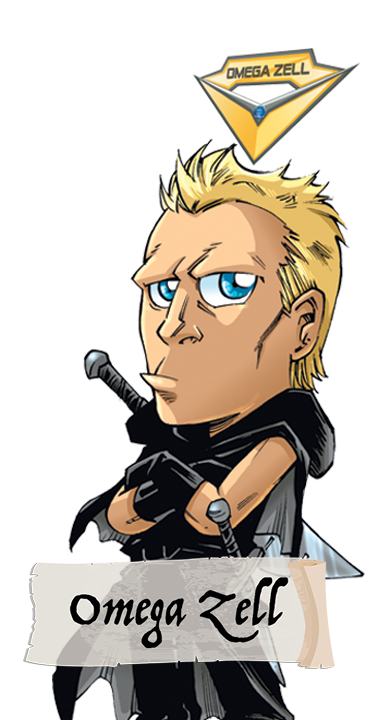
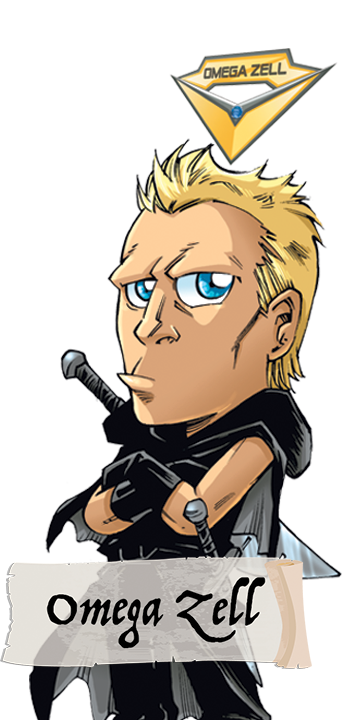
Modif quête 1 plus propre
Modification des div + ajout ombre portée sur croix et flèche

diff --git a/views/quete1.html b/views/quete1.html
@@ -1,6 +1,6 @@
 <div ng-controller="Quete1Ctrl">
 
-<div class="fondquete" ng-if="partie1">
+<!--<div class="fondquete" ng-if="partie1">
 	<section id="partie1"  >
 
 			<div class="row quete">
@@ -19,15 +19,43 @@
 					
 			</div>
 	</section>
+</div>-->
+
+<div class="fondquete" ng-if="partie1">
+	<section id="partie1"  >
+
+			<div class="row containerquete">
+
+				<div class="col-xs-4">
+							<img src="images/quete/Quete1/start/titre.jpg" class="img-responsive">
+				</div>
+
+				<div class="col-xs-4" ng-click="quete1Start('gaea')">
+							<img src="images/quete/Quete1/start/gaea.png" class="img-responsive persoquete">
+			     </div>		
+
+				<div class="col-xs-4" ng-click="quete1Start('omega')">		
+							<img src="images/quete/Quete1/start/omega.png" class="img-responsive persoquete">
+				</div>								
+					
+			</div>
+	</section>
 </div>
+
+
+
+
+
+
+
 
 														<!--OMEGA-->
 	<section id="omega1" ng-if="omega1">	
 		
-		<div class="col-xs-12">
+		<div class="col-xs-12 imgsaisons">
 		<img src="images/quete/Quete1/omega/1.jpg" class="img-responsive"> 
-		<a href ="#carte"><img src="images/quete/Quete1/bouton/croix.svg" class="croix"></a>
-		<img src="images/quete/Quete1/bouton/flecheD.svg" class="fleche" ng-click="queteOmegaA()">
+		<a href ="#carte"><span class="glyphicon glyphicon-remove croix" aria-hidden="true"></span></a>
+		<span class="glyphicon glyphicon-chevron-right fleche" aria-hidden="true" ng-click="queteOmegaA()"></span>
 		</div>
 
 	</section>
@@ -35,10 +63,10 @@
 
 	<section id="omega2" ng-if="omega2">
 		
-		<div class="col-xs-12">
+		<div class="col-xs-12 imgsaisons">
 		<img src="images/quete/Quete1/omega/2.jpg" class="img-responsive">
-		<a href ="#carte"><img src="images/quete/Quete1/bouton/croix.svg" class="croix"></a>
-		<img src="images/quete/Quete1/bouton/flecheD.svg" class="fleche" ng-click="queteOmegaB()">		
+		<a href ="#carte"><span class="glyphicon glyphicon-remove croix" aria-hidden="true"></span></a>
+		<span class="glyphicon glyphicon-chevron-right fleche" aria-hidden="true" ng-click="queteOmegaB()"></span>		
 		</div>
 
 
@@ -58,10 +86,10 @@
 
 	<section id="omega4" ng-if="omega4">
 		
-		<div class="col-xs-12">
+		<div class="col-xs-12 imgsaisons">
 		<img src="images/quete/Quete1/omega/3.jpg" class="img-responsive">
-		<a href ="#carte"><img src="images/quete/Quete1/bouton/croix.svg" class="croix"></a>
-		<img src="images/quete/Quete1/bouton/flecheD.svg" class="fleche" ng-click="queteOmegaD()">	
+		<a href ="#carte"><span class="glyphicon glyphicon-remove croix" aria-hidden="true"></span></a>
+		<span class="glyphicon glyphicon-chevron-right fleche" aria-hidden="true" ng-click="queteOmegaD()"></span>	
 		</div>
 
 
@@ -69,10 +97,10 @@
 
 	<section id="omega" ng-if="omega5">
 		
-		<div class="col-xs-12">
+		<div class="col-xs-12 imgsaisons">
 		<img src="images/quete/Quete1/omega/4.jpg" class="img-responsive">
-		<a href ="#carte"><img src="images/quete/Quete1/bouton/croix.svg" class="croix"></a>
-		<img src="images/quete/Quete1/bouton/flecheD.svg" class="fleche" ng-click="queteOmegaE()">	
+		<a href ="#carte"><span class="glyphicon glyphicon-remove croix" aria-hidden="true"></span></a>
+		<span class="glyphicon glyphicon-chevron-right fleche" aria-hidden="true" ng-click="queteOmegaE()"></span>	
 		</div>
 
 		
@@ -90,10 +118,10 @@
 
 	<section id="gaea1" ng-if="gaea1">	
 		
-		<div class="col-xs-12">
+		<div class="col-xs-12 imgsaisons">
 		<img src="images/quete/Quete1/gaea/G1.jpg" class="img-responsive"> 
-		<a href ="#carte"><img src="images/quete/Quete1/bouton/croix.svg" class="croix"></a>
-		<img src="images/quete/Quete1/bouton/flecheD.svg" class="fleche" ng-click="queteGaeaA()">	
+		<a href ="#carte"><span class="glyphicon glyphicon-remove croix" aria-hidden="true"></span></a>
+		<span class="glyphicon glyphicon-chevron-right fleche" aria-hidden="true" ng-click="queteGaeaA()"></span>		
 		</div>	
 		
 
@@ -101,10 +129,10 @@
 
 	<section id="gaea2" ng-if="gaea2">	
 		
-		<div class="col-xs-12">
+		<div class="col-xs-12 imgsaisons">
 		<img src="images/quete/Quete1/gaea/G2.jpg" class="img-responsive" >
-		<a href ="#carte"><img src="images/quete/Quete1/bouton/croix.svg" class="croix"></a>
-		<img src="images/quete/Quete1/bouton/flecheD.svg" class="fleche" ng-click="queteGaeaB()">
+		<a href ="#carte"><span class="glyphicon glyphicon-remove croix" aria-hidden="true"></span></a>
+		<span class="glyphicon glyphicon-chevron-right fleche" aria-hidden="true" ng-click="queteGaeaB()"></span>	
 		</div>    	
 	
 
@@ -122,10 +150,10 @@
 
 <section id="gaea4" ng-if="gaea4">	
 		
-		<div class="col-xs-12">
+		<div class="col-xs-12 imgsaisons">
 		<img src="images/quete/Quete1/gaea/suite.jpg" class="img-responsive">  
-		<a href ="#carte"><img src="images/quete/Quete1/bouton/croix.svg" class="croix"></a>
-		<img src="images/quete/Quete1/bouton/flecheD.svg" class="fleche" ng-click="queteGaeaD()">
+		<a href ="#carte"><span class="glyphicon glyphicon-remove croix" aria-hidden="true"></span></a>
+		<span class="glyphicon glyphicon-chevron-right fleche" aria-hidden="true" ng-click="queteGaeaD()"></span>	
 		</div>  	
 		
 

diff --git a/styles/main.css b/styles/main.css
@@ -577,6 +577,7 @@ background-color: rgba(255, 255, 255, 0.4);
 .imgquete2
 {   
   max-width: 100%;
+    padding-top: 27px;
 }
 
 .imgquete3
@@ -593,17 +594,26 @@ background-color: rgba(255, 255, 255, 0.4);
 
 .croix
 {
-  position:absolute;
-  top:8px;
-  right:0;
-  width:90px;
+    position:absolute;
+    top:8px;
+    right:8px;
+    width:40px;
+    color:white;
+    font-size: 40px;
+    text-shadow: 5px 5px 7px rgba(0, 0, 0, 0.4);
+    
+    
 }
 
 .fleche
 {
   position: absolute;
-  top:140px;
-  right: 0;
+  top:150px;
+  right: 7px;
+  width:40px;
+  color:white;
+  font-size: 40px;   
+  text-shadow: 5px 5px 7px rgba(0, 0, 0, 0.4);
 }
 
 .bloctweet {
@@ -631,4 +641,17 @@ background-color: rgba(255, 255, 255, 0.4);
 
 .backvideos {
     padding-top: 8px;
+}
+
+
+/*TEST QUETE 1*/
+
+.containerquete {
+    margin-right: 0;
+    margin-left: 0;
+    padding-top: 10px;
+}
+
+.persoquete {
+    width: 91%;
 }
